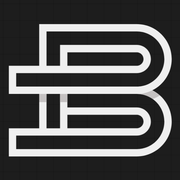
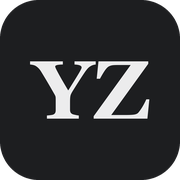
Use Night style with a day/night toggle; update CV and publications
- Night is the default style; a header button switches to Day and the
  choice is remembered per visitor
- Remove the B logo from the header and replace the favicon with a YZ mark
- CV: updated education (supervisors, capstone, honours; no GPA), PolyU
  teaching, ad hoc reviewing
- Add the conditionally accepted IJCHM paper, the JDMM DOI and uniform
  SSCI/JCR badges
- Text fields accept numbers, since YAML reads 2025.04 as a number

diff --git a/src/content.config.ts b/src/content.config.ts
@@ -6,7 +6,12 @@ import { themes } from './lib/themes';
 // The editor at /admin may write an empty string or null for a field left blank.
 // These helpers treat all of those as "not set" so a blank field never breaks the build.
 const blank = (v: unknown) => v === '' || v === null;
-const text = () => z.string().nullish().transform((v) => (v ? v : undefined));
+// Numbers are accepted too: YAML reads an unquoted 2025.04 as a number.
+const text = () =>
+  z
+    .union([z.string(), z.number()])
+    .nullish()
+    .transform((v) => (v === null || v === undefined || v === '' ? undefined : String(v)));
 const list = <T extends z.ZodType>(item: T) =>
   z.preprocess((v) => (blank(v) ? undefined : v), z.array(item).optional()).transform((v) => v ?? []);
 const optImage = (image: () => z.ZodType) =>
@@ -86,7 +91,7 @@ const publications = defineCollection({
       title: z.string(),
       authors: list(z.string()),
       year: z.coerce.number().int(),
-      status: z.enum(['published', 'in-press', 'under-review', 'working-paper']).default('published'),
+      status: z.enum(['published', 'in-press', 'accepted', 'under-review', 'working-paper']).default('published'),
       venue: z.string(),
       volume: text(),
       issue: text(),

diff --git a/src/lib/i18n.ts b/src/lib/i18n.ts
@@ -11,12 +11,13 @@ const strings = {
     life: 'Life',
     switchTo: '中文',
     switchLabel: 'Switch to Chinese',
+    toggleMode: 'Switch between dark and light',
     researchInterests: 'Research interests',
-    news: 'News',
     selectedPublications: 'Selected publications',
     allPublications: 'All publications',
     journalArticles: 'Journal articles',
     inPress: 'In press',
+    accepted: 'Conditionally accepted',
     underReview: 'Under review',
     workingPapers: 'Working papers',
     presentations: 'Conference presentations',
@@ -53,12 +54,13 @@ const strings = {
     life: '生活',
     switchTo: 'EN',
     switchLabel: '切换到英文',
+    toggleMode: '切换深色 / 浅色',
     researchInterests: '研究兴趣',
-    news: '动态',
     selectedPublications: '代表性成果',
     allPublications: '全部成果',
     journalArticles: '期刊论文',
     inPress: '即将出版',
+    accepted: '有条件接收',
     underReview: '审稿中',
     workingPapers: '工作论文',
     presentations: '学术会议',

diff --git a/src/styles/global.css b/src/styles/global.css
@@ -305,25 +305,38 @@ p {
 }
 
 .brand {
-  display: inline-flex;
-  align-items: center;
-  gap: 0.6rem;
   color: var(--ink);
   text-decoration: none;
   font-family: var(--font-heading);
   font-weight: 600;
-  font-size: 1.1rem;
+  font-size: 1.2rem;
   white-space: nowrap;
 }
 
-.brand-mark {
-  width: 1.85rem;
-  height: 1.85rem;
-  border-radius: 7px;
+.mode-toggle {
+  display: inline-grid;
+  place-items: center;
+  width: 2.25rem;
+  height: 2.25rem;
+  margin-left: 0.15rem;
+  padding: 0;
+  border: 1px solid var(--rule);
+  border-radius: 8px;
+  background: transparent;
+  color: var(--ink-2);
+  font-size: 1.05rem;
+  cursor: pointer;
 }
 
-[data-theme='night'] .brand-mark {
-  outline: 1px solid #3a3b40;
+.mode-toggle:hover {
+  color: var(--ink);
+  background: var(--surface-2);
+}
+
+/* Show the icon for the mode you would switch to. */
+[data-theme='night'] .mode-toggle .icon-moon,
+[data-theme='day'] .mode-toggle .icon-sun {
+  display: none;
 }
 
 .nav {

diff --git a/src/lib/data.ts b/src/lib/data.ts
@@ -11,7 +11,13 @@ export async function getCv() {
 
 export async function getPublications() {
   const all = await getCollection('publications');
-  return all.sort((a, b) => b.data.year - a.data.year || a.data.title.localeCompare(b.data.title));
+  const rank = { accepted: 0, 'in-press': 0, published: 1, 'under-review': 2, 'working-paper': 3 };
+  return all.sort(
+    (a, b) =>
+      b.data.year - a.data.year ||
+      rank[a.data.status] - rank[b.data.status] ||
+      a.data.title.localeCompare(b.data.title),
+  );
 }
 
 export async function getTalks() {
